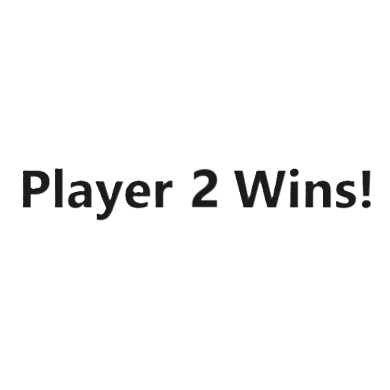
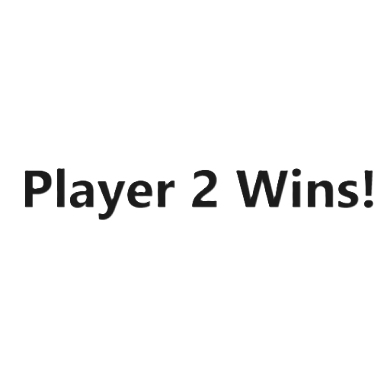
Added background image

Changed region(s): [[0.5846, 0.4308, 0.9538, 0.5538], [0.0615, 0.4308, 0.4615, 0.5846], [0.4923, 0.4308, 0.5538, 0.5231]]

diff --git a/breeze-pong/main.cpp b/breeze-pong/main.cpp
@@ -37,7 +37,8 @@ const char V_SHADER_PATH[] = "shaders/vertex_textured.glsl",
 const char BREEZE_PATH[] = "assets/breeze_thin.png",
 		   WINDBALL_PATH[] = "assets/wind_charge.png",
 		   P1_WINS_PATH[] = "assets/player_1_wins.png",
-		   P2_WINS_PATH[] = "assets/player_2_wins.png";
+		   P2_WINS_PATH[] = "assets/player_2_wins.png",
+		   BACKGROUND_PATH[] = "assets/trial_chamber.png";
 
 // const for deltaTime calc
 const float MILLISECONDS_IN_SECOND = 1000.0;
@@ -54,6 +55,7 @@ glm::mat4 g_viewMatrix,
 		  g_modelMatrix_p2,
 	      g_modelMatrix_ball,
 		  g_modelMatrix_text,
+		  g_modelMatrix_back,
 		  g_projectionMatrix;
 
 // core globals
@@ -67,6 +69,7 @@ GLuint g_player2TextureID;
 GLuint g_windballTextureID;
 GLuint g_p1WinsTextureID;
 GLuint g_p2WinsTextureID;
+GLuint g_backgroundTextureID;
 
 glm::vec3 g_player1Pos = glm::vec3(-4.5f, 0.0f, 0.0f);
 glm::vec3 g_player2Pos = glm::vec3(4.5f, 0.0f, 0.0f);
@@ -128,12 +131,14 @@ void initialize() {
 	g_windballTextureID = load_texture(WINDBALL_PATH);
 	g_p1WinsTextureID = load_texture(P1_WINS_PATH);
 	g_p2WinsTextureID = load_texture(P2_WINS_PATH);
+	g_backgroundTextureID = load_texture(BACKGROUND_PATH);
 
 	g_viewMatrix = glm::mat4(1.0f);
 	g_modelMatrix_p1 = glm::mat4(1.0f);
 	g_modelMatrix_p2 = glm::mat4(1.0f);
 	g_modelMatrix_ball = glm::mat4(1.0f);
 	g_modelMatrix_text = glm::scale(glm::mat4(1.0f), glm::vec3(7.0f, 7.0f, 0.0f));
+	g_modelMatrix_back = glm::scale(glm::mat4(1.0f), glm::vec3(10.2f, 7.5f, 0.0f));
 	g_projectionMatrix = glm::ortho(-5.0f, 5.0f, -3.75f, 3.75f, -1.0f, 1.0f);
 
 	g_shaderProgram.set_projection_matrix(g_projectionMatrix);
@@ -199,10 +204,10 @@ void update() {
 	// ball collision detection
 	float yDistFrom1 = g_windballPos.y - g_player1Pos.y;
 	float yDistFrom2 = g_windballPos.y - g_player2Pos.y;
-	if (g_windballPos.x < -3.8f && g_windballPos.x > -4.3f && abs(yDistFrom1) < 1.5f) {
+	if (g_windballPos.x < -3.7f && g_windballPos.x > -4.3f && abs(yDistFrom1) < 1.5f) {
 		g_windballDir.x = 1.0f;
 		g_windballDir = glm::normalize(g_windballDir + glm::vec3(0.0f, 0.4*yDistFrom1, 0.0f));
-	} else if (g_windballPos.x > 3.8f && g_windballPos.x < (g_vsAI? 4.8f : 4.3f) && abs(yDistFrom2) < 1.5f) {
+	} else if (g_windballPos.x > 3.7f && g_windballPos.x < (g_vsAI? 4.8f : 4.3f) && abs(yDistFrom2) < 1.5f) {
 		g_windballDir.x = -1.0f;
 		g_windballDir = glm::normalize(g_windballDir + glm::vec3(0.0f, 0.4*yDistFrom2, 0.0f));
 	}
@@ -265,6 +270,7 @@ void render() {
 	glEnableVertexAttribArray(g_shaderProgram.get_tex_coordinate_attribute());
 
 	// draw the sprites here!
+	draw_object(g_modelMatrix_back, g_backgroundTextureID);
 	draw_object(g_modelMatrix_p1, g_player1TextureID);
 	draw_object(g_modelMatrix_p2, g_player2TextureID);
 	if (!g_gameOver) draw_object(g_modelMatrix_ball, g_windballTextureID);
